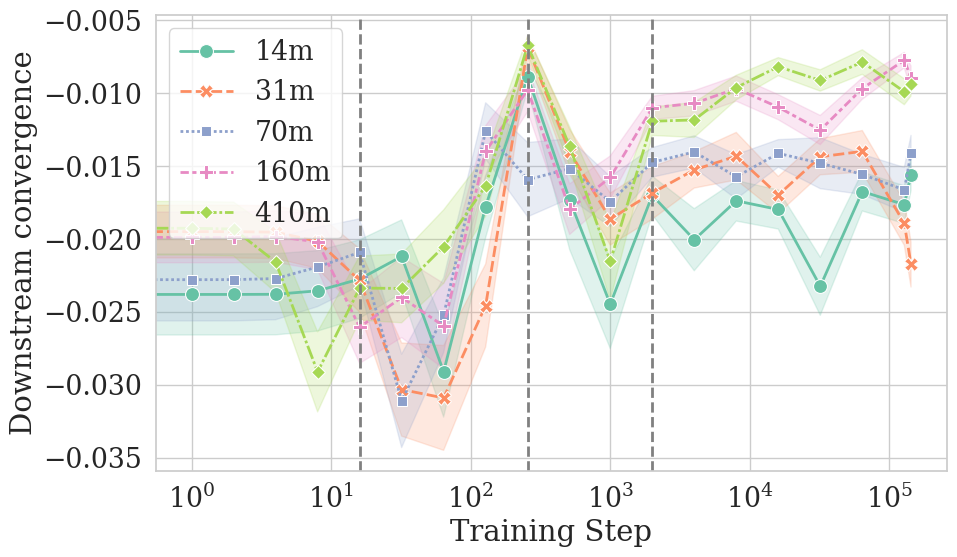
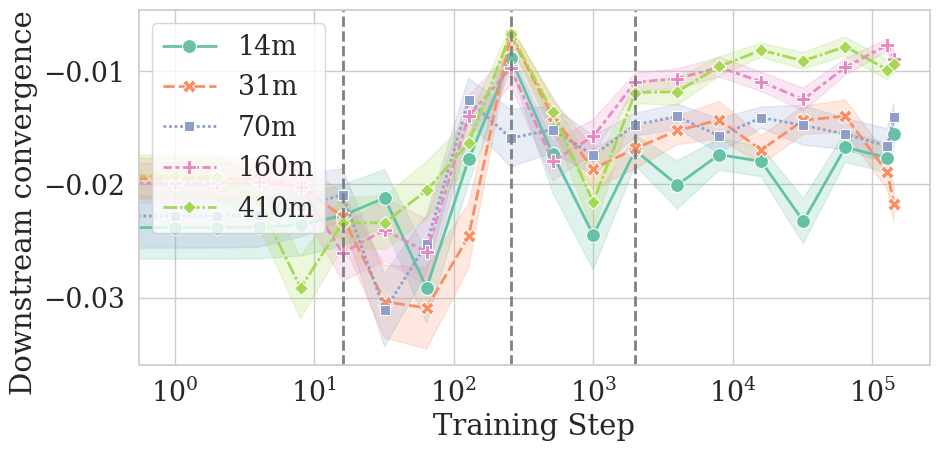
Fixed a few plots

Changed region(s): [[0.0, 0.0, 1.0, 0.9933], [0.7721, 0.6519, 0.803, 0.714]]

diff --git a/paper-plots/multiberts.py b/paper-plots/multiberts.py
@@ -1,0 +1,25 @@
+import pandas as pd
+import sys
+from utils import styled_plot
+
+pos_index = sys.argv[2]
+
+df = pd.read_csv(f'../working_dir/{sys.argv[1]}/output/seeds_pos_{pos_index}_dataframe.csv')
+
+def plot_no_filters():
+    df_plot = df.copy()
+    df_plot = df_plot[
+        (df_plot['Model'] == df_plot['Model 2']) &
+        (df_plot['Training Step'] == df_plot['Training Step 2']) &
+        (df_plot['Seed 1'] != df_plot['Seed 2'])
+        ]
+
+    y_label = r'Expected Convergence ($\mathbb{E}[\mathrm{conv}]$)'
+    save_loc = f'../working_dir/{sys.argv[1]}/output/multiberts.png'
+
+    styled_plot(
+        df_plot, 'Training Step', 'KL Average', 'Model', 'Model', 'Training Step',
+        y_label, save_loc, order_legend=False, legend_include=False, y_scale=5.5, y_label_loc="top", vertical_lines=[]
+    )
+
+plot_no_filters()

diff --git a/paper-plots/utils.py b/paper-plots/utils.py
@@ -60,7 +60,7 @@ def styled_plot(
 
     error_text = "sd"
 
-    if "ICL" in y_name or "ICL" in y_label:
+    if "ICL" in y_name or "ICL" in y_label or "blimp" in save_loc:
         error_text = "se"
 
     sns.lineplot(

diff --git a/paper-plots/blimp.py b/paper-plots/blimp.py
@@ -25,5 +25,7 @@ styled_plot(
     r'Downstream convergence',
     f'{path}/blimp.png',
     y_log = False,
-    order_legend = False
+    order_legend = False,
+    y_scale=5,
+    y_label_loc="top"
 )

diff --git a/paper-plots/variance_plot.py b/paper-plots/variance_plot.py
@@ -27,6 +27,6 @@ styled_plot(
     y_label,
     save_loc,
     order_legend=False,
-    y_scale=5,
+    y_scale=5.5,
     y_label_loc="top"
 )
